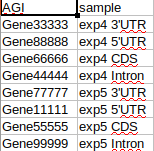
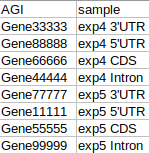
changed pictures, made headlines work

diff --git a/README.md b/README.md
@@ -1,6 +1,6 @@
 # rna-dash
 
-###usage
+### usage
 
 Parameters:
 
@@ -8,13 +8,15 @@ Parameters:
 isoform: gene AGI or name of the isoform\
 EXP: Experiment name and timestamp, seperated by an underscore. Needs to contain wildtype (wt_)\
 TPM: TPM data\
-sd_TPM: standard derivation of the TPM data\
+sd_TPM: standard derivation of the TPM data
+
 ![Picture of a table containing example data](/pictures/transcript1.png)
 
 -d: gene annotation data, tab separated, containing AGI, gene name and gene description, columns don't have names
 
 -o: occurrence of genes in other experiments, tab separated, containing AGI and sample\
-sample can contain either one or two conditions, separated by a space\
+sample can contain either one or two conditions, separated by a space
+
 ![Picture of a table containing example data](/pictures/datasets.png)
 
 -p: port, default is 8050
@@ -23,17 +25,19 @@ sample can contain either one or two conditions, separated by a space\
 
 -i: title, default is empty. If the title contains more than one word, it has to be enclosed by ""
 
-###features
+### features
 
-####whole dashboard
+#### dashboard
 
 The dashboard contains a graph showing the expression of a gene. This gene is chosen via a dropdown menu containing all available genes. If a gene has a name an/or description but there is no expression data, a blank graph is shown. The shown expression data can be filtered with a second dropdown menu. With this dropdown menu a percentage is selected. Transcripts with an expression under said percentage of the gene expression will be excluded from the graph.
+
 ![Picture of the upper part of the dashboard, containing title, filter options and the graph](/pictures/dashboard_top.png)
 
 Under the graph are a card containing the chosen genes name and description and information aout other datasets where the gene was found. Depending on if the datasets contain one or two conditions this will be shown as a heatmap for two conditions or a histogram for a single condition
+
 ![Picture of the lower part of the dashboard containing information about the selected gene and a heatmap showing in what other datasets the gene was expressed](/pictures/dashboard_bottom.png)
 
-####filters
+#### filters
 
 ![Picture of the dropdown menu for choosing a gene](/pictures/gene_selection.png)
 
